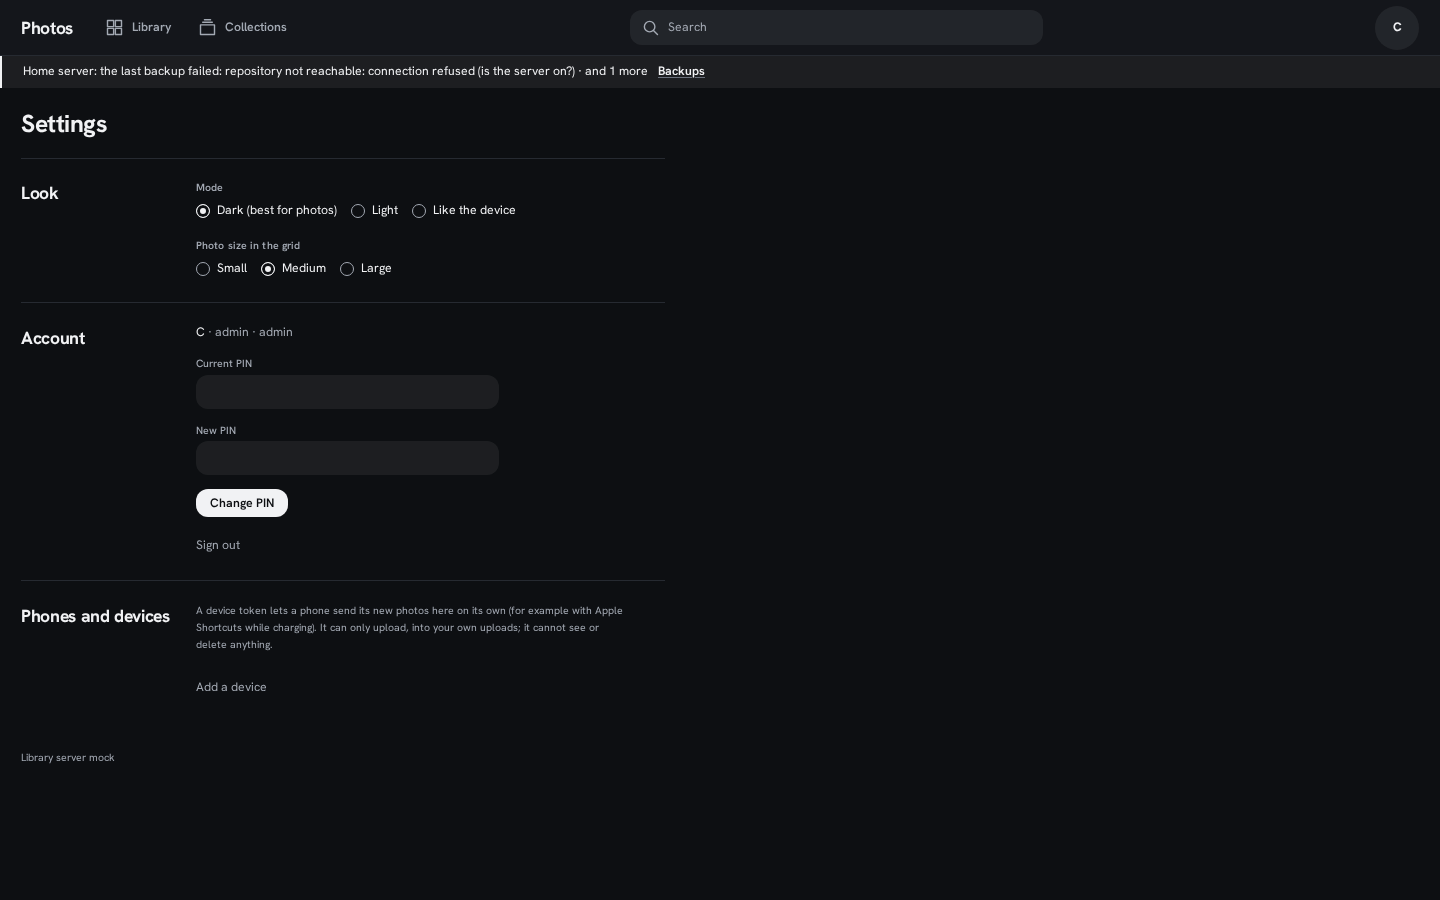
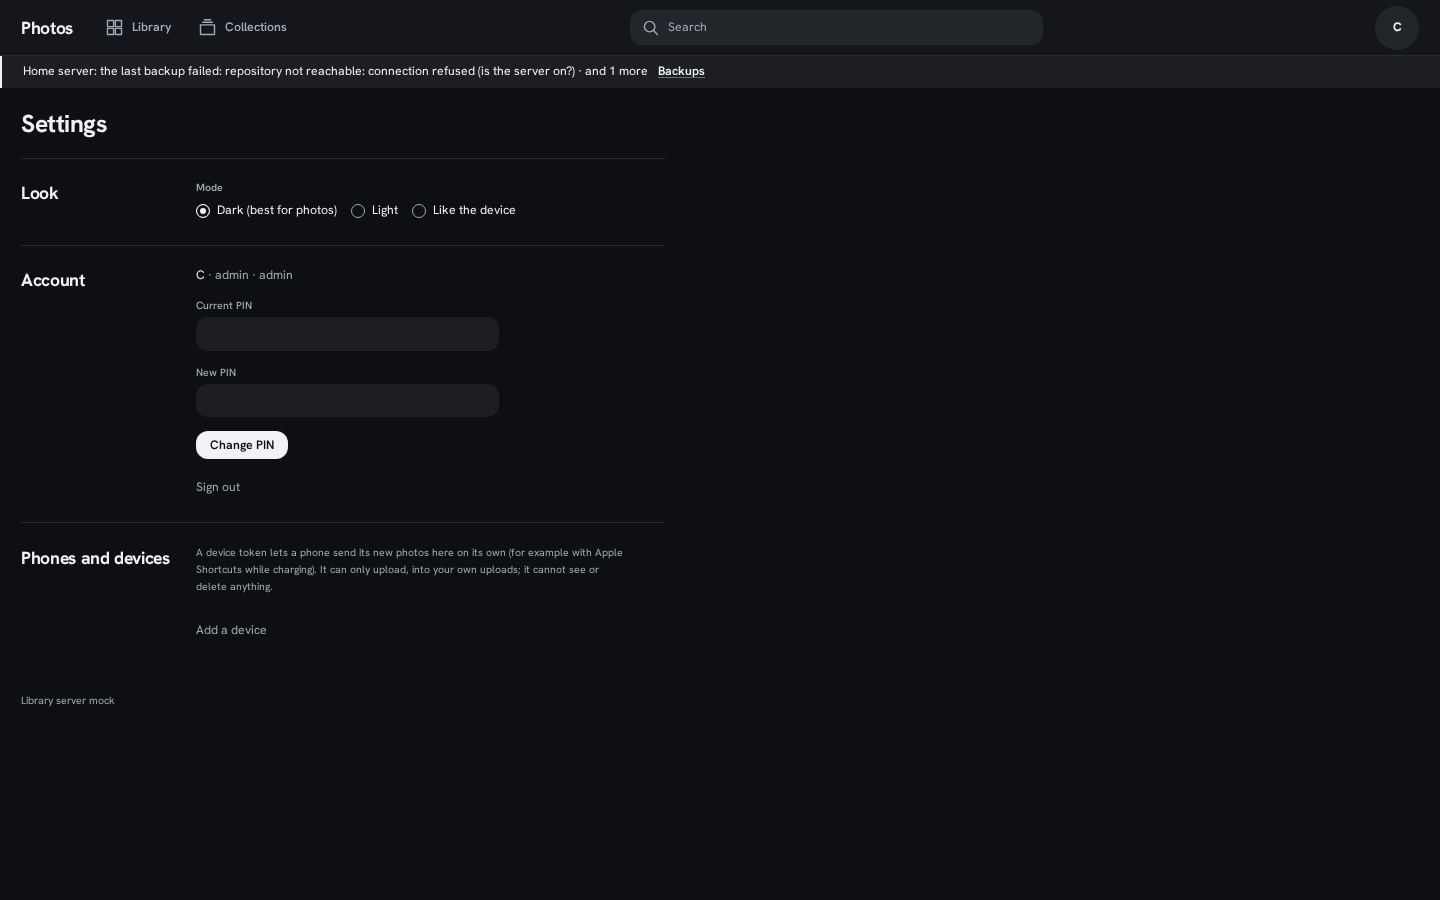
fix(settings): the look alone gives the photo size; the per-device setting goes
A size chosen once in Settings (pa.density in the browser) hid the account
look's thumbSize for good, with no way back. The control and its stored key
are gone, the grids read the look's size (a tried look included), and a
browser that still holds the old key drops it when the app loads.

diff --git a/web/src/lib/look-loading.svelte.spec.ts b/web/src/lib/look-loading.svelte.spec.ts
@@ -1,7 +1,15 @@
 import { afterEach, beforeEach, describe, expect, it, vi } from 'vitest';
 import { ApiError, type User } from '$lib/api';
 import { DEFAULT_LOOK, look, parseLook, type Look } from '$lib/look';
-import { api, chooseMode, loadLook, notice, session, settings } from './app.svelte';
+import {
+	api,
+	chooseMode,
+	forgetOldDensity,
+	loadLook,
+	notice,
+	session,
+	settings
+} from './app.svelte';
 
 vi.mock('$app/navigation', () => ({ goto: vi.fn(async () => undefined) }));
 
@@ -246,15 +254,27 @@ describe('leaving (a shared device)', () => {
 });
 
 describe('the look’s dials that the grid reads', () => {
-	it('the look’s thumb size is the grid size until one is chosen on this device', () => {
-		expect(settings.density).toBe('comfortable');
+	it('the look’s thumb size is the grid size, and so is that of a look being tried', () => {
+		expect(settings.thumbSize).toBe('medium');
 		look.receive(parseLook({ thumbSize: 'large' }));
-		expect(settings.density).toBe('large');
-		look.receive(parseLook({ thumbSize: 'small' }));
-		expect(settings.density).toBe('compact');
-		settings.setDensity('comfortable');
-		expect(settings.density).toBe('comfortable');
-		expect(localStorage.getItem('pa.density')).toBe('comfortable');
+		expect(settings.thumbSize).toBe('large');
+		look.try(parseLook({ thumbSize: 'small' }), { id: 2, name: 'Donna' });
+		expect(settings.thumbSize).toBe('small');
+	});
+
+	it('a photo size once chosen on this device is forgotten, so the look decides again', () => {
+		localStorage.setItem('pa.density', 'compact');
+		look.receive(parseLook({ thumbSize: 'large' }));
+		forgetOldDensity();
+		expect(localStorage.getItem('pa.density')).toBeNull();
+		expect(settings.thumbSize).toBe('large');
+	});
+
+	it('forgetting it does not throw where storage is blocked', () => {
+		vi.spyOn(Storage.prototype, 'removeItem').mockImplementation(() => {
+			throw new DOMException('blocked', 'SecurityError');
+		});
+		expect(forgetOldDensity).not.toThrow();
 	});
 
 	it('the look’s photo gap is the grid gap; left to the theme it is 3', () => {

diff --git a/web/src/lib/state/settings.svelte.ts b/web/src/lib/state/settings.svelte.ts
@@ -1,8 +1,6 @@
 /** Viewer settings, kept per browser. */
 import { look, themeDials, type ThumbSize } from '$lib/look';
 
-export type Density = 'compact' | 'comfortable' | 'large';
-
 function stored<T extends string, F>(key: string, allowed: readonly T[], fallback: F): T | F {
 	try {
 		const value = localStorage.getItem(key);
@@ -20,22 +18,24 @@ function store(key: string, value: string) {
 	}
 }
 
-const DENSITY_OF: Record<ThumbSize, Density> = {
-	small: 'compact',
-	medium: 'comfortable',
-	large: 'large'
-};
+/**
+ * Photo size was once chosen per browser, and that choice then hid the look's for good. The
+ * look decides now, so a browser that still holds the old choice drops it when the app loads.
+ */
+export function forgetOldDensity() {
+	try {
+		localStorage.removeItem('pa.density');
+	} catch {
+		// blocked storage held nothing to forget
+	}
+}
 
 class Settings {
-	/** The photo size chosen on this device in Settings, if one was. */
-	#density = $state<Density | null>(
-		stored<Density, null>('pa.density', ['compact', 'comfortable', 'large'], null)
-	);
 	filtersOpen = $state(stored('pa.filters', ['open', 'closed'], 'open') === 'open');
 
-	/** Photo size in the grids: this device's own choice, else what the account's look says. */
-	get density(): Density {
-		return this.#density ?? DENSITY_OF[look.shown.thumbSize];
+	/** Photo size in the grids: what the account's look says, a look being tried included. */
+	get thumbSize(): ThumbSize {
+		return look.shown.thumbSize;
 	}
 	/** The gap between photos in the grids, in px: the account's look, else its theme's own. */
 	get gap(): number {
@@ -43,10 +43,6 @@ class Settings {
 		return photoGap ?? themeDials(theme, mode).photoGap;
 	}
 
-	setDensity(density: Density) {
-		this.#density = density;
-		store('pa.density', density);
-	}
 	setFiltersOpen(open: boolean) {
 		this.filtersOpen = open;
 		store('pa.filters', open ? 'open' : 'closed');

diff --git a/web/e2e/look.spec.ts b/web/e2e/look.spec.ts
@@ -298,6 +298,40 @@ test('the old per-browser setting does not overwrite a mode chosen on another de
 	expect((await (await page.request.get('/api/me/look')).json()).mode).toBe('system');
 });
 
+test('a photo size once chosen on this device is gone: the look gives the size again', async ({
+	page,
+	context
+}) => {
+	await resetMock();
+	// As left by the app before this change; set once, so its removal can be seen.
+	await context.addInitScript(() => {
+		if (sessionStorage.getItem('seeded')) return;
+		sessionStorage.setItem('seeded', '1');
+		localStorage.setItem('pa.density', 'large');
+	});
+	await signIn(page, '/settings');
+	await expect(page.getByRole('group', { name: 'Mode' })).toBeVisible();
+	await expect(page.getByRole('group', { name: /Photo size/ })).toHaveCount(0);
+	await expect.poll(() => page.evaluate(() => localStorage.getItem('pa.density'))).toBeNull();
+
+	// Rows are justified, so one tile's height says little: the middle one of the first twenty.
+	const tiles = page.locator('.tile');
+	const height = () =>
+		tiles.evaluateAll((all) => {
+			const heights = all.slice(0, 20).map((tile) => tile.getBoundingClientRect().height);
+			return heights.sort((a, b) => a - b)[Math.floor(heights.length / 2)] ?? 0;
+		});
+	await page.goto('/');
+	await expect(tiles.nth(19)).toBeVisible();
+	const medium = await height();
+	await setMyLook(page, { thumbSize: 'large' });
+	await page.reload();
+	await expect.poll(height).toBeGreaterThan(medium * 1.2);
+	await setMyLook(page, { thumbSize: 'small' });
+	await page.reload();
+	await expect.poll(height).toBeLessThan(medium * 0.9);
+});
+
 test('on a shared device the next person does not get the last one’s look', async ({ page }) => {
 	await resetMock();
 	await signIn(page, '/settings');

diff --git a/web/src/routes/settings/+page.svelte b/web/src/routes/settings/+page.svelte
@@ -1,6 +1,6 @@
 <script lang="ts">
 	import { isPin, PIN_LENGTH } from '$lib/api';
-	import { api, chooseMode, notice, session, settings, type Density } from '$lib/app.svelte';
+	import { api, chooseMode, notice, session } from '$lib/app.svelte';
 	import { look, type Mode } from '$lib/look';
 	import Devices from '$lib/components/Devices.svelte';
 	import { errorMessage } from '$lib/format';
@@ -45,11 +45,6 @@
 		['light', 'Light'],
 		['system', 'Like the device']
 	];
-	const densities: [Density, string][] = [
-		['compact', 'Small'],
-		['comfortable', 'Medium'],
-		['large', 'Large']
-	];
 </script>
 
 <svelte:head><title>Settings · Photos</title></svelte:head>
@@ -69,21 +64,6 @@
 						{value}
 						checked={look.saved.mode === value}
 						onchange={() => chooseMode(value)}
-					/>
-					{label}
-				</label>
-			{/each}
-		</fieldset>
-		<fieldset>
-			<legend>Photo size in the grid</legend>
-			{#each densities as [value, label] (value)}
-				<label class="choice">
-					<input
-						type="radio"
-						name="density"
-						{value}
-						checked={settings.density === value}
-						onchange={() => settings.setDensity(value)}
 					/>
 					{label}
 				</label>

diff --git a/web/src/lib/timeline.ts b/web/src/lib/timeline.ts
@@ -1,4 +1,5 @@
 import type { AssetOut } from './api/types';
+import type { ThumbSize } from './look';
 
 export type MonthGroup = { key: string; label: string; items: AssetOut[] };
 
@@ -93,10 +94,10 @@ export function justify(aspects: number[], width: number, target: number, gap: n
 	return { boxes, height: Math.max(0, y - gap) };
 }
 
-/** Target row height for a container width and a density setting (DESIGN_PRINCIPLES §3). */
-export function rowHeightFor(width: number, density: 'compact' | 'comfortable' | 'large'): number {
+/** Target row height for a container width and the look's photo size (DESIGN_PRINCIPLES §3). */
+export function rowHeightFor(width: number, size: ThumbSize): number {
 	const base = width < 640 ? 110 : 220;
-	return Math.round(base * { compact: 0.75, comfortable: 1, large: 1.4 }[density]);
+	return Math.round(base * { small: 0.75, medium: 1, large: 1.4 }[size]);
 }
 
 /**

diff --git a/web/src/lib/timeline.spec.ts b/web/src/lib/timeline.spec.ts
@@ -121,9 +121,9 @@ describe('justify (invariants)', () => {
 
 describe('rowHeightFor', () => {
 	it('follows the design table: ~220 px on laptops, ~110 px on phones', () => {
-		expect(rowHeightFor(1440, 'comfortable')).toBe(220);
-		expect(rowHeightFor(390, 'comfortable')).toBe(110);
-		expect(rowHeightFor(1440, 'compact')).toBeLessThan(220);
+		expect(rowHeightFor(1440, 'medium')).toBe(220);
+		expect(rowHeightFor(390, 'medium')).toBe(110);
+		expect(rowHeightFor(1440, 'small')).toBeLessThan(220);
 		expect(rowHeightFor(1440, 'large')).toBeGreaterThan(220);
 	});
 });

diff --git a/web/src/lib/app.svelte.ts b/web/src/lib/app.svelte.ts
@@ -9,5 +9,5 @@ export { library } from './state/library.svelte';
 export { chooseMode, loadLook } from './state/look-loading';
 export { notice, type NoticeAction } from './state/notice.svelte';
 export { isPublicRoute, session } from './state/session.svelte';
-export { settings, type Density } from './state/settings.svelte';
+export { forgetOldDensity, settings } from './state/settings.svelte';
 export { isFilterable, ui, viewport } from './state/ui.svelte';

diff --git a/web/src/lib/components/Timeline.svelte b/web/src/lib/components/Timeline.svelte
@@ -39,7 +39,7 @@
 	 */
 	const LABEL = 48;
 	let width = $state(0);
-	const rowHeight = $derived(rowHeightFor(viewport.width, settings.density));
+	const rowHeight = $derived(rowHeightFor(viewport.width, settings.thumbSize));
 	const groups = $derived(groupByMonth(loader.items));
 	// Earlier months keep their layout when a page arrives (lib/month-layouts.ts).
 	const layoutsFor = monthLayouts();

diff --git a/web/src/routes/+layout.svelte b/web/src/routes/+layout.svelte
@@ -10,6 +10,7 @@
 	import LookTrial from '$lib/components/LookTrial.svelte';
 	import {
 		backupWatch,
+		forgetOldDensity,
 		isFilterable,
 		isPublicRoute,
 		loadLook,
@@ -31,6 +32,7 @@
 
 	onMount(() => {
 		look.show();
+		forgetOldDensity();
 		if (!bare) void session.load();
 	});
 

diff --git a/web/src/routes/map/+page.svelte b/web/src/routes/map/+page.svelte
@@ -136,7 +136,7 @@
 		justify(
 			chosenItems.map((a) => aspect(a)),
 			gridWidth,
-			rowHeightFor(viewport.width, settings.density),
+			rowHeightFor(viewport.width, settings.thumbSize),
 			settings.gap
 		)
 	);

diff --git a/web/src/lib/components/JustifiedGrid.svelte b/web/src/lib/components/JustifiedGrid.svelte
@@ -18,7 +18,7 @@
 		justify(
 			items.map((a) => aspect(a)),
 			width,
-			rowHeightFor(viewport.width, settings.density),
+			rowHeightFor(viewport.width, settings.thumbSize),
 			settings.gap
 		)
 	);

diff --git a/web/src/routes/albums/[id]/+page.svelte b/web/src/routes/albums/[id]/+page.svelte
@@ -29,7 +29,7 @@
 		justify(
 			items.map((a) => aspect(a)),
 			width,
-			rowHeightFor(viewport.width, settings.density),
+			rowHeightFor(viewport.width, settings.thumbSize),
 			settings.gap
 		)
 	);
